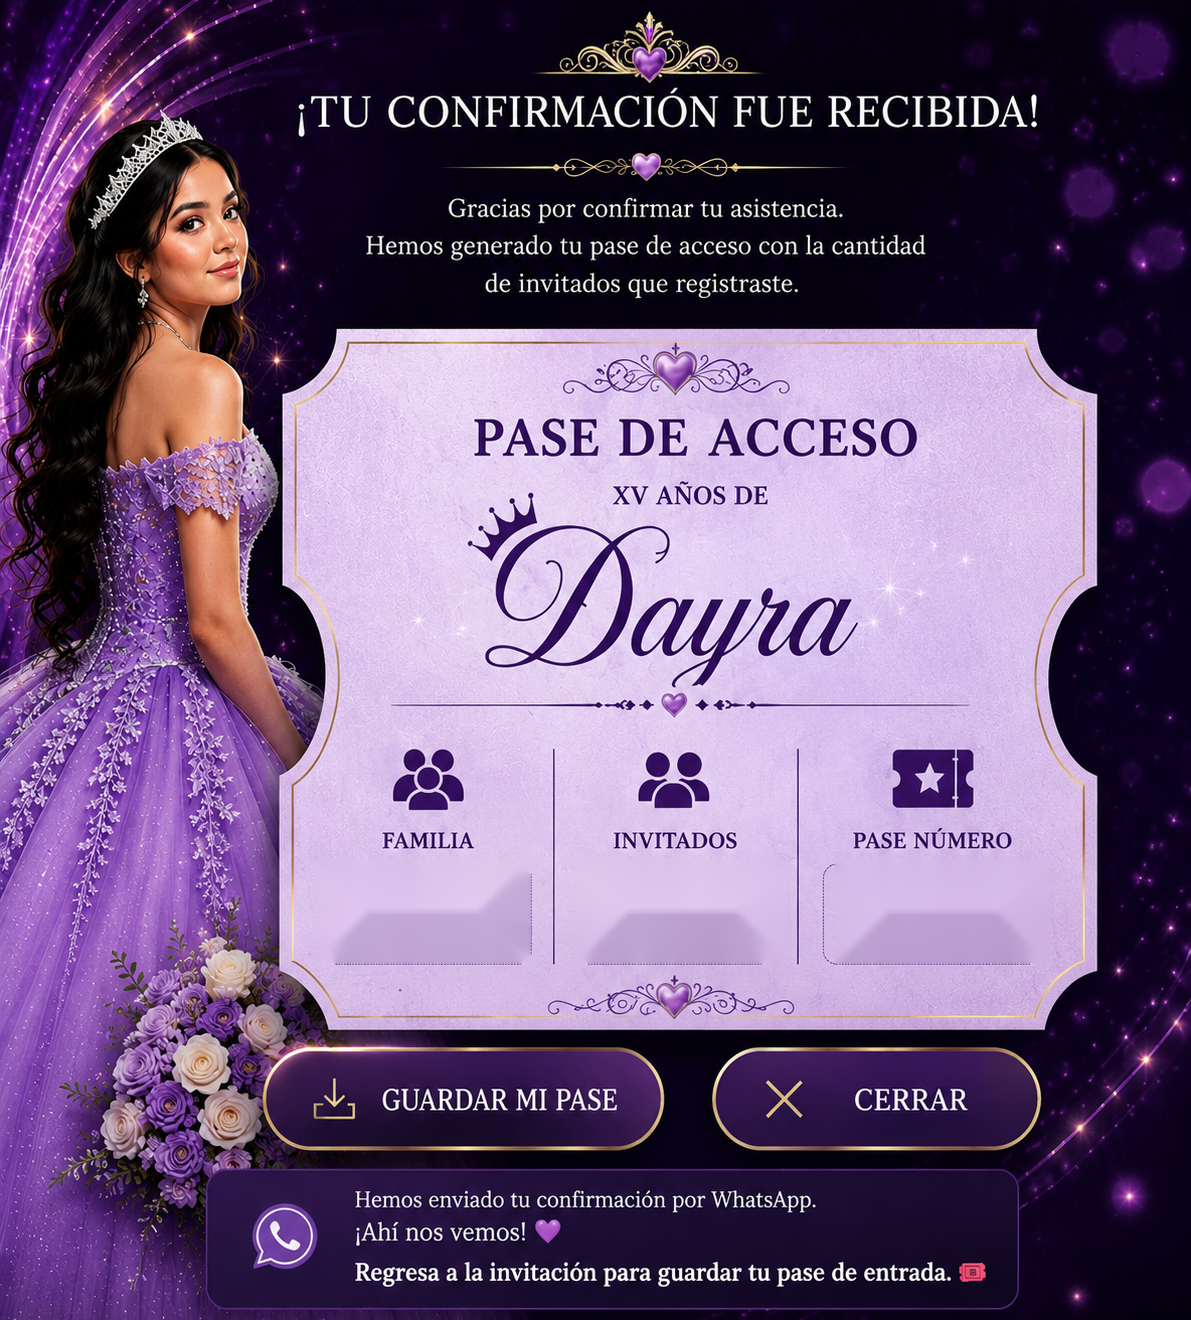
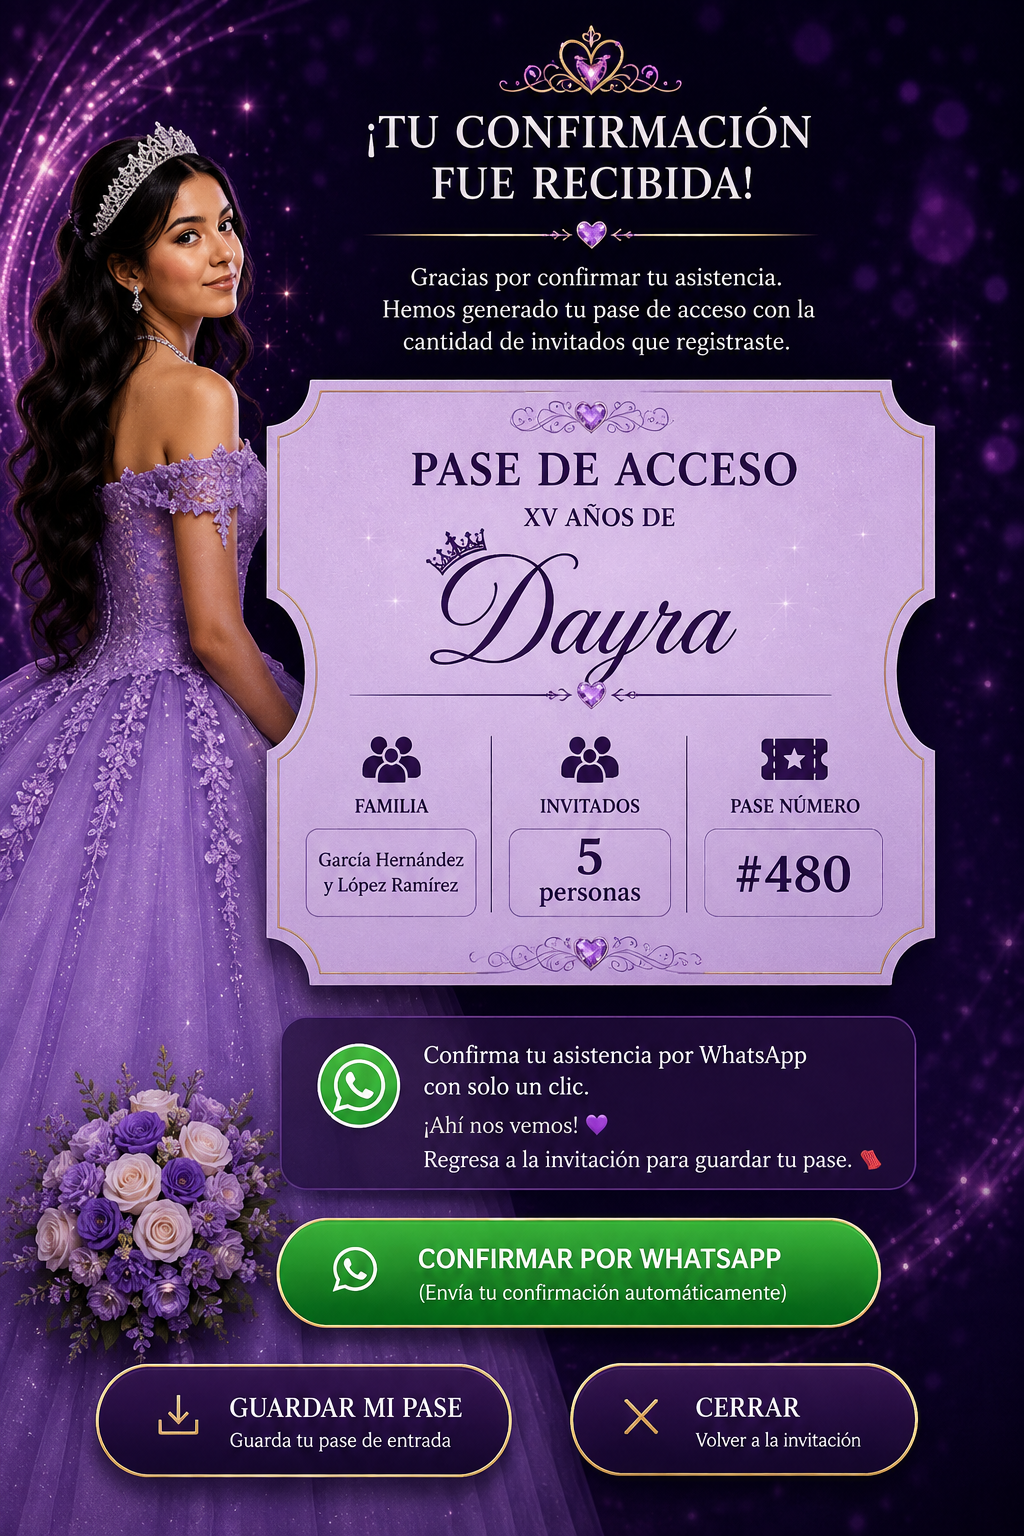
Add files via upload

diff --git a/index.html b/index.html
@@ -309,17 +309,21 @@ button.nav:active{
 #passFamily{left:27.0%!important;top:66.0%!important;width:17.0%!important;font-size:clamp(13px,2vw,25px)!important}
 #passGuests{left:47.0%!important;top:66.0%!important;width:17.0%!important;font-size:clamp(15px,2.2vw,28px)!important}
 #passNumber{left:67.5%!important;top:66.0%!important;width:17.0%!important;font-size:clamp(16px,2.3vw,30px)!important}
-#passSave,#passClose{
- position:absolute!important;z-index:50!important;
- bottom:10.0%!important;height:8.5%!important;
+
+/* Three transparent functional hit areas over the buttons already drawn in
+   the new artwork: WhatsApp, Save, Close. */
+#passWhatsApp,#passSave,#passClose{
+ position:absolute!important;z-index:60!important;
  padding:0!important;margin:0!important;border:0!important;outline:0!important;
  background:transparent!important;background-image:none!important;
  box-shadow:none!important;color:transparent!important;font-size:0!important;
  cursor:pointer!important;appearance:none!important;-webkit-appearance:none!important;
 }
-#passSave::before,#passSave::after,#passClose::before,#passClose::after{content:none!important;display:none!important}
-#passSave{left:21.0%!important;width:31.0%!important}
-#passClose{left:59.5%!important;width:24.0%!important}
+#passWhatsApp::before,#passWhatsApp::after,#passSave::before,#passSave::after,
+#passClose::before,#passClose::after{content:none!important;display:none!important}
+#passWhatsApp{left:22%!important;top:76.0%!important;width:58%!important;height:7.2%!important}
+#passSave{left:9%!important;bottom:4.0%!important;width:37%!important;height:7.0%!important}
+#passClose{right:8%!important;bottom:4.0%!important;width:31%!important;height:7.0%!important}
 </style>
 </head>
 <body>
@@ -436,11 +440,12 @@ document.addEventListener('DOMContentLoaded',function(){
 <section id="slide9" class="slide">
   <div id="passCard">
     <img src="pase-acceso.png" alt="Pase de acceso">
-    <div id="passFamily" class="passValue">Familia</div>
-    <div id="passGuests" class="passValue">0 personas</div>
-    <div id="passNumber" class="passValue">#000</div>
+    <div id="passFamily" class="passValue"></div>
+    <div id="passGuests" class="passValue"></div>
+    <div id="passNumber" class="passValue"></div>
+    <button id="passWhatsApp" type="button" aria-label="Confirmar por WhatsApp"></button>
     <button id="passSave" type="button" aria-label="Guardar mi pase"></button>
-    <button id="passClose" type="button" aria-label="Cerrar"></button>
+    <button id="passClose" type="button" aria-label="Cerrar y volver a la invitación"></button>
   </div>
 </section>
 <script id="rsvp-whatsapp-final">
@@ -448,33 +453,53 @@ document.addEventListener('DOMContentLoaded',function(){
   const WA='526562661158';
   let lastData=null;
 
-  function askData(){
-    const family=prompt('Escribe el nombre de la familia:');
-    if(!family || !family.trim()) return null;
-    let count=prompt('¿Cuántas personas asistirán?');
-    if(!count || !count.trim()) return null;
-    count=count.trim();
-    if(!/^\d+$/.test(count) || Number(count)<1){
+  function askFamily(){
+    const v=prompt('Escribe el nombre de la familia:');
+    return v && v.trim() ? v.trim() : null;
+  }
+
+  function askGuests(){
+    const v=prompt('¿Cuántas personas asistirán?');
+    if(!v || !v.trim()) return null;
+    const n=Number(v.trim());
+    if(!Number.isInteger(n) || n<1){
       alert('Escribe una cantidad válida de invitados.');
       return null;
     }
-    return {family:family.trim(),count:String(Number(count))};
+    return String(n);
   }
 
   function makePassNumber(){
     return '#'+String(Math.floor(100+Math.random()*900));
   }
 
-  function showPass(d){
-    lastData={family:d.family,count:d.count,number:makePassNumber()};
-    document.getElementById('passFamily').textContent=lastData.family;
-    document.getElementById('passGuests').textContent=lastData.count+' '+(lastData.count==='1'?'persona':'personas');
-    document.getElementById('passNumber').textContent=lastData.number;
+  function showPass(data){
+    lastData=data;
+    document.getElementById('passFamily').textContent=data.family;
+    document.getElementById('passGuests').textContent=
+      data.count+' '+(data.count==='1'?'persona':'personas');
+    document.getElementById('passNumber').textContent=data.number;
     window.goToSlide(8);
   }
 
-  function savePass(){
+  function confirmWhatsApp(){
     if(!lastData) return;
+
+    const msg =
+      '💜 CONFIRMACIÓN DE ASISTENCIA — XV AÑOS DE DAYRA 💜\n\n' +
+      'Familia: '+lastData.family+'\n' +
+      'Invitados: '+lastData.count+' '+(lastData.count==='1'?'persona':'personas')+'\n' +
+      'Pase número: '+lastData.number+'\n\n' +
+      '¡Ahí nos vemos! 💜\n' +
+      'Regresa a la invitación para guardar tu pase de entrada. 🎟';
+
+    // WhatsApp opens with the confirmation prepared. The guest taps Enviar,
+    // then returns to this invitation/pase.
+    const url='https://wa.me/'+WA+'?text='+encodeURIComponent(msg);
+    window.open(url,'_blank');
+  }
+
+  function buildPassBlob(data,callback){
     const img=new Image();
     img.onload=function(){
       const c=document.createElement('canvas');
@@ -483,6 +508,7 @@ document.addEventListener('DOMContentLoaded',function(){
       const ctx=c.getContext('2d');
       ctx.drawImage(img,0,0);
 
+      // Clean the three dynamic data boxes of the new design.
       ctx.fillStyle='#eee6f5';
       ctx.fillRect(315,858,215,105);
       ctx.fillRect(575,858,215,105);
@@ -493,53 +519,75 @@ document.addEventListener('DOMContentLoaded',function(){
       ctx.textBaseline='middle';
 
       ctx.font='bold italic 31px Georgia';
-      ctx.fillText(lastData.family,422,907);
+      ctx.fillText(data.family,422,907);
 
       ctx.font='bold 38px Georgia';
-      ctx.fillText(lastData.count,682,900);
+      ctx.fillText(data.count,682,900);
       ctx.font='bold 25px Georgia';
-      ctx.fillText(lastData.count==='1'?'persona':'personas',682,935);
+      ctx.fillText(data.count==='1'?'persona':'personas',682,935);
 
       ctx.font='bold 42px Georgia';
-      ctx.fillText(lastData.number,942,912);
+      ctx.fillText(data.number,942,912);
 
-      c.toBlob(function(blob){
-        const url=URL.createObjectURL(blob);
-        const a=document.createElement('a');
-        a.href=url;
-        a.download='Pase_Dayra_'+lastData.family.replace(/\s+/g,'_')+'_'+lastData.number.replace('#','')+'.png';
-        document.body.appendChild(a);
-        a.click();
-        a.remove();
-        setTimeout(function(){URL.revokeObjectURL(url);},1500);
-      },'image/png');
+      c.toBlob(callback,'image/png');
     };
     img.src='pase-acceso.png';
   }
 
+  function savePass(){
+    if(!lastData) return;
+    buildPassBlob(lastData,function(blob){
+      const url=URL.createObjectURL(blob);
+      const a=document.createElement('a');
+      a.href=url;
+      a.download='Pase_Dayra_'+lastData.family.replace(/\s+/g,'_')+'_'+lastData.number.replace('#','')+'.png';
+      document.body.appendChild(a);
+      a.click();
+      a.remove();
+      setTimeout(function(){URL.revokeObjectURL(url);},1500);
+    });
+  }
+
   function yes(){
-    const d=askData();
-    if(d) showPass(d);
+    const family=askFamily();
+    if(!family) return;
+
+    const count=askGuests();
+    if(!count) return;
+
+    showPass({
+      family:family,
+      count:count,
+      number:makePassNumber()
+    });
   }
 
   function no(){
-    const family=prompt('Escribe el nombre de la familia:');
-    if(!family || !family.trim()) return;
-    lastData={family:family.trim(),count:'0',number:'SIN PASE'};
-    document.getElementById('passFamily').textContent=lastData.family;
+    const family=askFamily();
+    if(!family) return;
+
+    lastData={family:family,count:'0',number:'SIN PASE'};
+    document.getElementById('passFamily').textContent=family;
     document.getElementById('passGuests').textContent='No asistirá';
     document.getElementById('passNumber').textContent='SIN PASE';
-    document.getElementById('passSave').style.display='none';
+    const save=document.getElementById('passSave');
+    const wa=document.getElementById('passWhatsApp');
+    if(save) save.style.display='none';
+    if(wa) wa.style.display='none';
     window.goToSlide(8);
   }
 
   document.addEventListener('DOMContentLoaded',function(){
-    const y=document.querySelector('.yes-hit'), n=document.querySelector('.no-hit');
+    const y=document.querySelector('.yes-hit');
+    const n=document.querySelector('.no-hit');
+    const wa=document.getElementById('passWhatsApp');
+    const save=document.getElementById('passSave');
+    const close=document.getElementById('passClose');
+
     if(y) y.onclick=yes;
     if(n) n.onclick=no;
-    const save=document.getElementById('passSave'), send=document.getElementById('passSend'), close=document.getElementById('passClose');
+    if(wa) wa.onclick=confirmWhatsApp;
     if(save) save.onclick=savePass;
-    if(send) send.onclick=whatsapp;
     if(close) close.onclick=function(){window.goToSlide(7);};
   });
 })();
